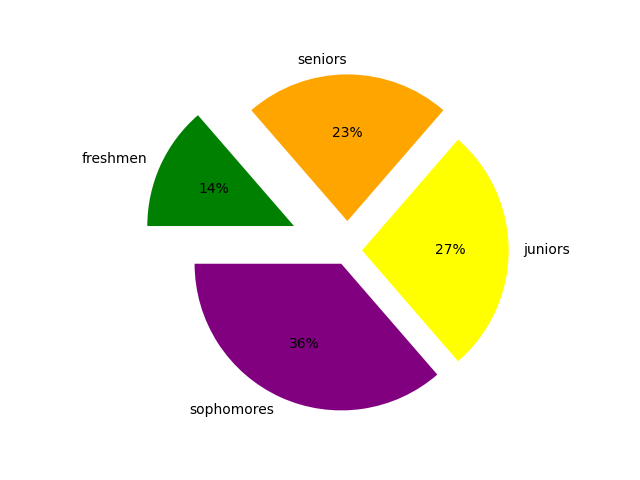
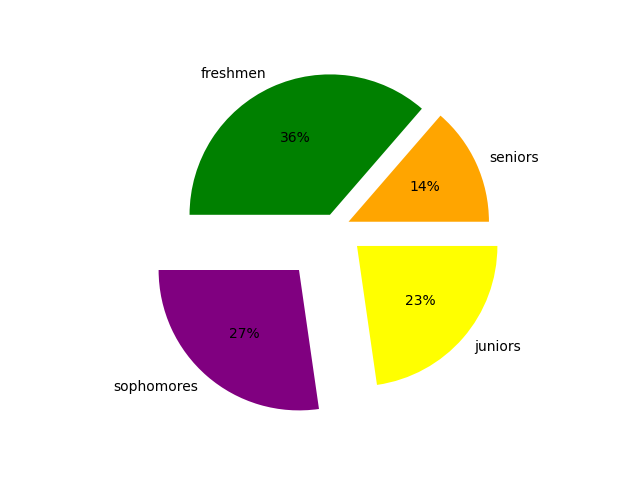
CS 162

Changed region(s): [[0.1875, 0.0938, 0.9062, 0.875], [0.125, 0.3125, 0.2188, 0.3438], [0.375, 0.6875, 0.4062, 0.7188]]

diff --git a/manipulating_arrays_NUMPY.done.py b/manipulating_arrays_NUMPY.done.py
@@ -1,0 +1,23 @@
+# Use Numpy to generate a random 2-dimensional numpy array with dimensions 5x5
+# Print the array, then print the number from the 2nd row 3rd column
+# Print the sum of all the elements in the array
+# Print the mean of each row in the array
+# Print the maximum value in each column of the array
+
+import numpy as np
+
+random_list = [np.random.randint(10, size=5) for _ in range (5)]
+random_array = np.array(random_list)
+row_means = np.mean(random_array, axis=1)
+# axis = 1 is the row, axis = 0 is the column
+column_max = np.max(random_array, axis=0)
+
+print (random_array)
+
+print (random_array [1,2])
+# [:, ::-1] flips array (what was last becomes first, what was second to the last becomes second, etc.)
+# row 0 = first row, row 1 = second row, etc.
+# column 0 = first column, column 1 = second column, etc.
+print (np.sum(random_array))
+print (row_means)
+print (column_max)

diff --git a/python graphic file.py b/python graphic file.py
@@ -1,9 +1,10 @@
 import matplotlib.pyplot as plot
 # set up your lists
-numlist = [8, 6, 5, 3]
+numlist = [6, 5, 3, 8]
 namelist = ['sophomores', 'juniors', 'seniors', 'freshmen']
 colorlist = ['purple', 'yellow', 'orange', 'green' ]
-explodelist = [0.1, 0.1, 0.2, 0.4]
+explodelist = [0.4, 0.2, 0.1, 0.1]
+
 # make the pie chart
 plot.pie(numlist, labels=namelist, autopct='%.0f%%', colors=colorlist,
     	explode = explodelist, startangle = 180)
